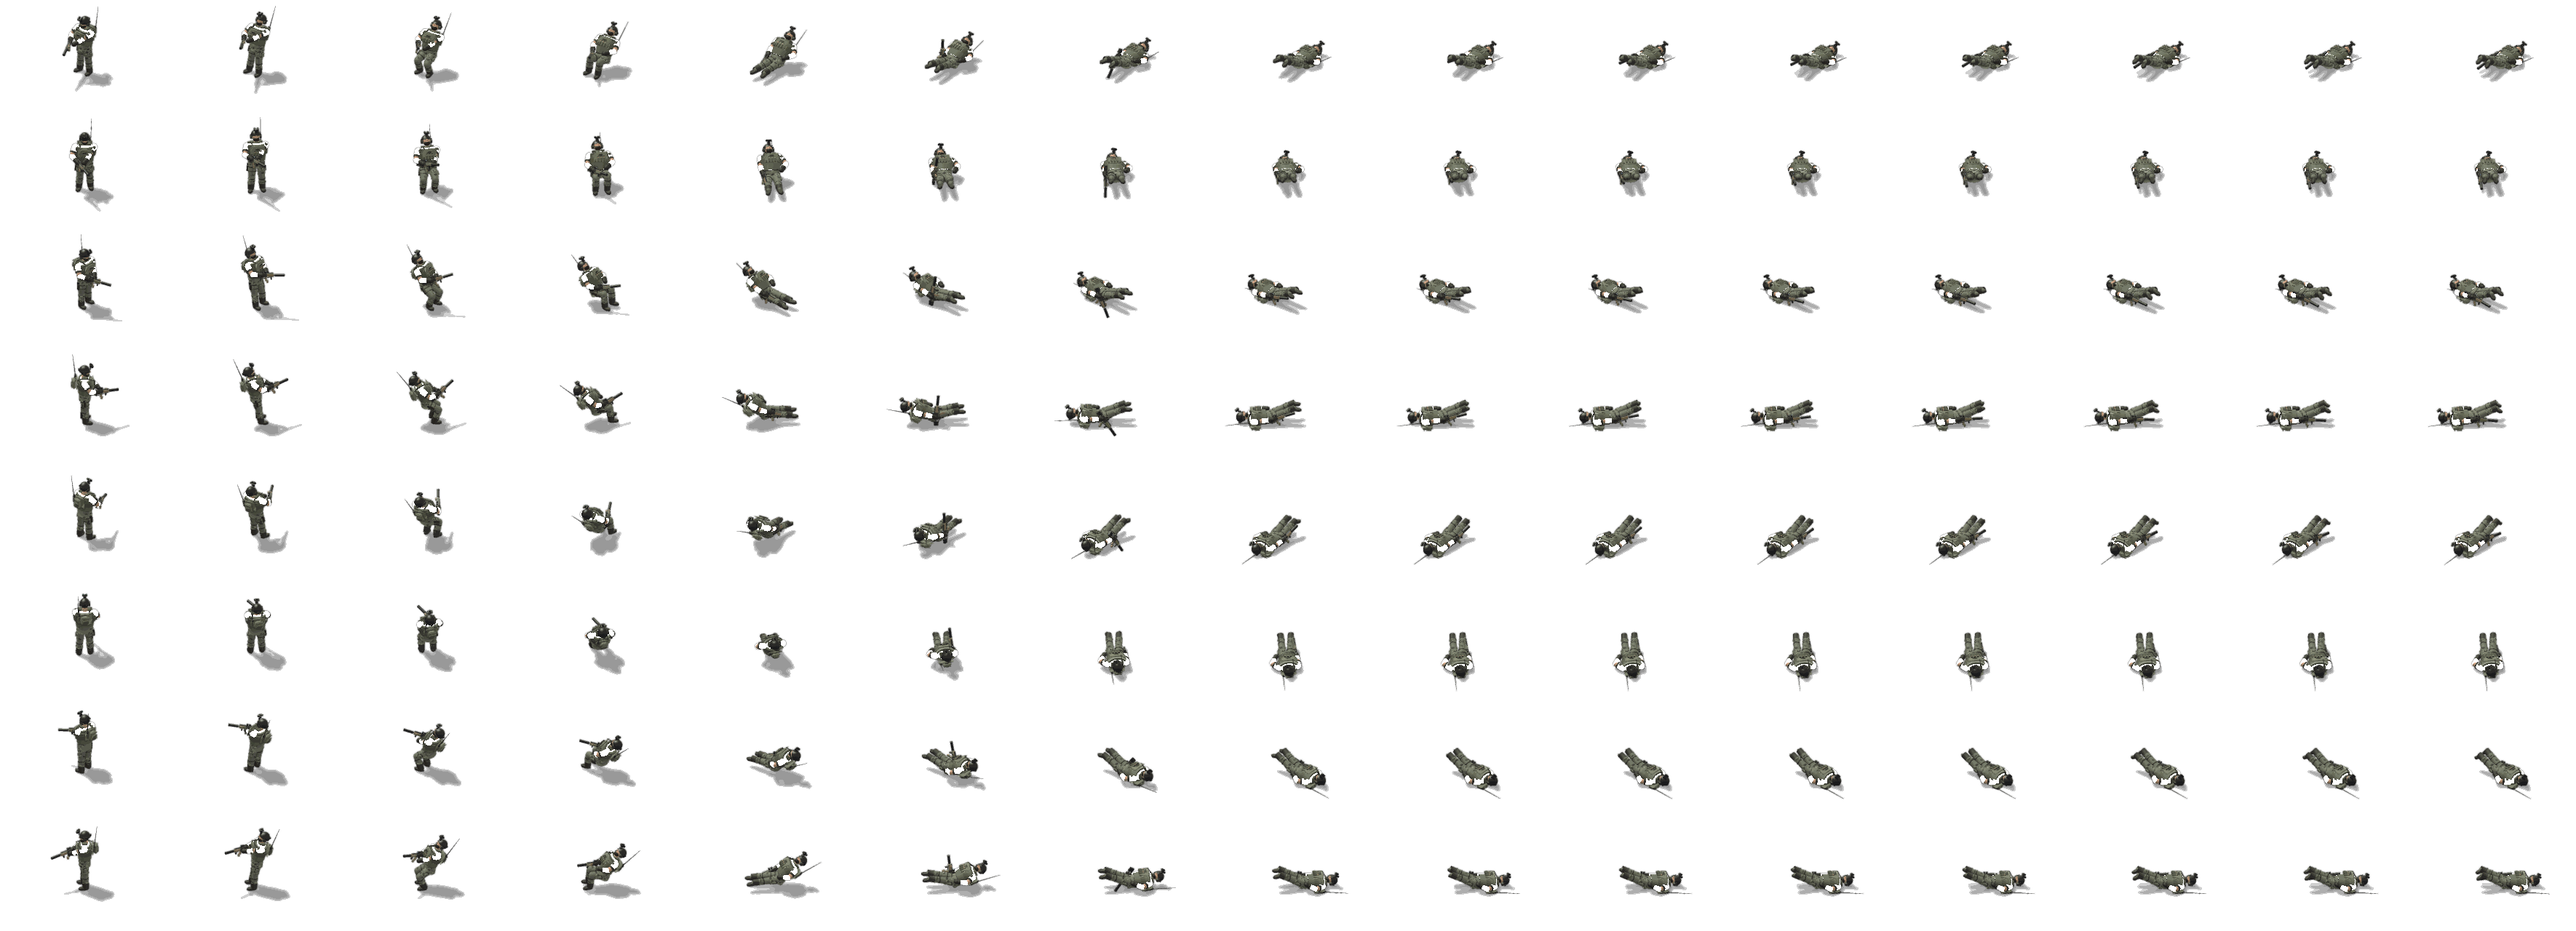
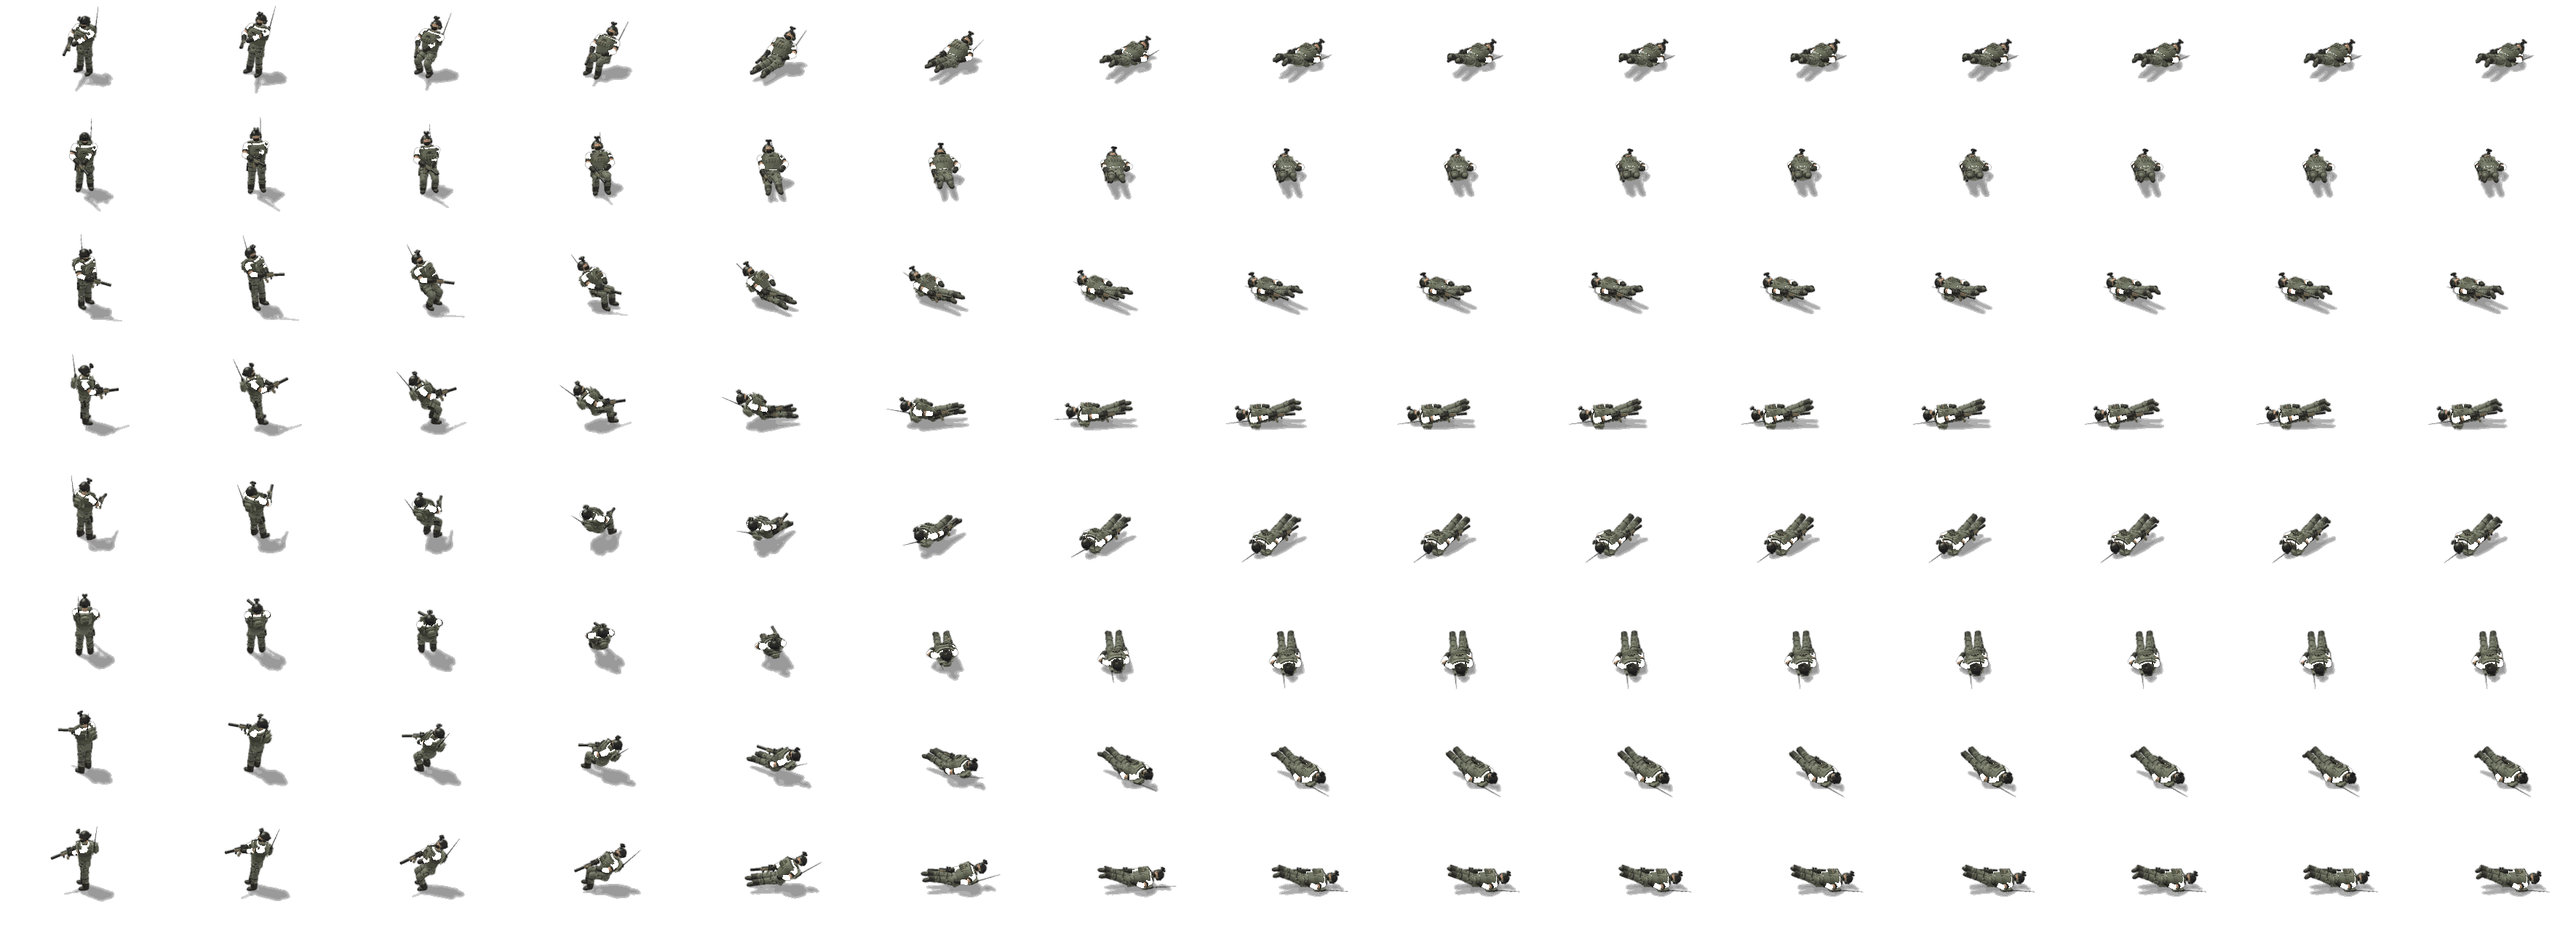
The regulars' death: the weapon lowers to the ground without flipping through the vertical
The weapon's pitch went from the carry angle to +172 through 0, so it stood up and swung round mid-fall; it
now goes only downward (carry - 35, -140, -176) and lies along the right side. The hand is held off the
ground and the body lies 7 cm higher, so the weapon never goes below the ground. Death sheets rebuilt.

diff --git a/ArtGen/units/models/regulars_foot.py b/ArtGen/units/models/regulars_foot.py
@@ -365,10 +365,10 @@ class RegularSoldier(LF.LeagueSoldier):
         down = min(max(down or 0.55, 0.35), 0.85)
         A_ = H.ANKLE_H
         fr, fl = tuple(B['foot_r']), tuple(B['foot_l'])
-        slack = {'hand_r': (0.30, 0.06, 0.80), 'w_main': (172, 0, 4), 'support': 0.0,
+        slack = {'hand_r': (0.30, 0.14, 0.80), 'w_main': (-176, 0, 4), 'support': 0.0,
                  'hand_l': (-0.36, 0.10, 0.92), 'elbow_r': (0.9, -0.3, -0.2), 'elbow_l': (-0.9, -0.2, -0.2)}
         mid = {'hand_r': tuple(0.5 * (_v(B['hand_r']) + _v(slack['hand_r']))),
-               'w_main': tuple(_v(B['w_main'])),
+               'w_main': tuple(_v(B['w_main']) + _v((-35, 0, 0))),     # lowered, never up past the vertical
                'support': 0.4 * float(B.get('support', 0.0)),
                'hand_l': (-0.34, 0.16, 1.05), 'elbow_r': (0.9, -0.3, -0.3), 'elbow_l': (-0.9, -0.3, -0.2)}
         k = [
@@ -377,11 +377,11 @@ class RegularSoldier(LF.LeagueSoldier):
                          'foot_r': fr, 'foot_l': fl})),
             (0.30, dict(mid, root_rot=(14, 0, 8), root_pos=(0, -0.10, -0.36), spine=(8, 0, 0), chest=(14, 0, 6),
                         head=(20, 0, 0), foot_r=fr, foot_l=fl)),
-            (0.52, dict(slack, w_main=(-150, 0, 6), root_rot=(46, 0, 8), root_pos=(0, -0.32, -0.62), spine=(6, 0, 0), chest=(8, 0, 4),
+            (0.52, dict(slack, w_main=(-140, 0, 6), root_rot=(46, 0, 8), root_pos=(0, -0.32, -0.62), spine=(6, 0, 0), chest=(8, 0, 4),
                         head=(14, 0, 8), foot_r=(0.18, 0.06, A_), foot_l=(-0.17, 0.12, A_))),
-            (0.74, dict(slack, root_rot=(86, 0, 6), root_pos=(0, -0.52, -0.75), spine=(0, 0, 0), chest=(0, 0, 2),
+            (0.74, dict(slack, root_rot=(86, 0, 6), root_pos=(0, -0.52, -0.69), spine=(0, 0, 0), chest=(0, 0, 2),
                         head=(-6, 0, 18), foot_r=(0.22, 0.22, A_), foot_l=(-0.18, 0.26, A_))),
-            (1.0, dict(slack, root_rot=(90, 0, 6), root_pos=(0, -0.54, -0.77), spine=(0, 0, 0), chest=(0, 0, 2),
+            (1.0, dict(slack, root_rot=(90, 0, 6), root_pos=(0, -0.54, -0.70), spine=(0, 0, 0), chest=(0, 0, 2),
                        head=(-8, 0, 22), foot_r=(0.24, 0.24, A_), foot_l=(-0.18, 0.28, A_),
                        toe_r=-30.0, toe_l=-30.0)),
         ]
